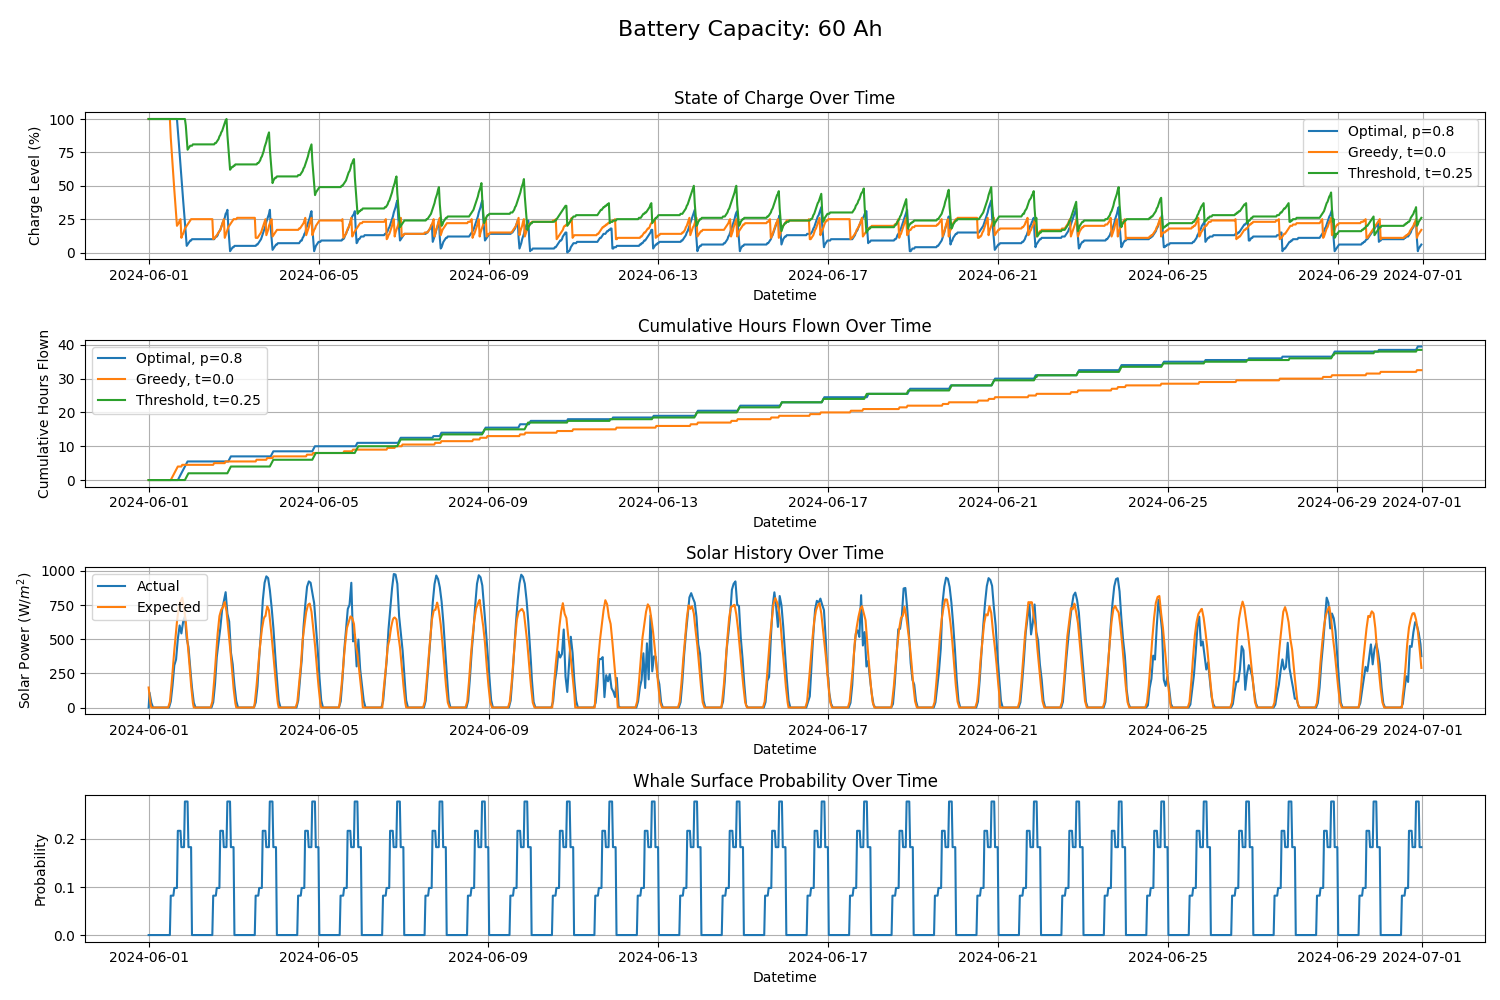
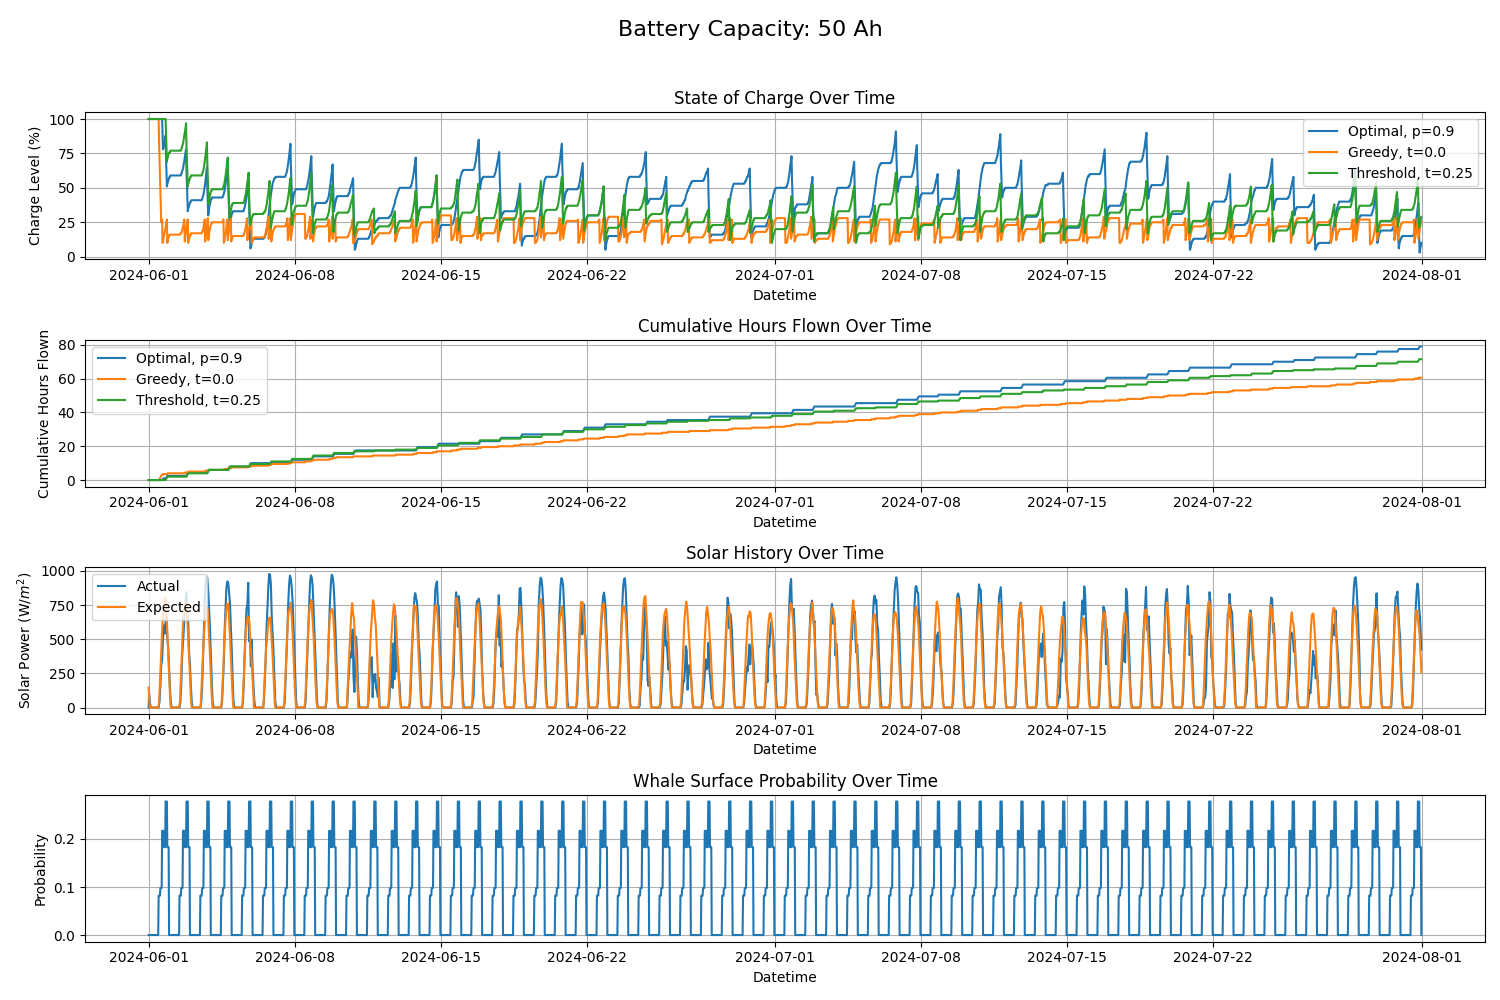
Meeting 11/21

diff --git a/SolarSimulator/Tools/analyze_results.py b/SolarSimulator/Tools/analyze_results.py
@@ -143,31 +143,46 @@ class PickleDataProcessor:
         fig.tight_layout(pad=3)
 
         # Ensure axes is always a list for consistent indexing, even with one file
-        if len(files) == 1:
+        num_files = len(files)
+        if num_files == 1:
             axes = [axes]
+        elif num_files == 0:
+            raise ValueError("No .pkl files found in the directory.")
         
         # Loop through each file and create a subplot
         for i, filename in enumerate(files):
             filepath = os.path.join(directory, filename)
             df = pd.read_pickle(filepath)
-            # match = re.match(r"(\w+)_Data_c(\d+)_p([\d.]+)_(\d+)min\.pkl", filename)
-            match = re.match(r"(\w+)_Data_c(\d+)_p([\d.]+)_(\d+)min_(\d+-\d+)", filename)
 
+            # Regex to handle all cases (Optimal, Threshold, and Greedy)
+            match = re.match(r"(\w+)_Data_c(\d+)_((p|t)([\d.]+))_(\d+)min_(\d+-\d+)", filename)
             if match:
-                algo, cap, prob, dt,_ = match.groups()
+                algo, cap, _, key, value, dt, days = match.groups()
                 cap = int(cap)
-                prob = float(prob)
                 dt = int(dt)
 
-            # Check if "Reward" column exists in the file
+                # Handle algorithm name for Greedy
+                if algo == "Threshold" and key == "t" and float(value) == 0.0:
+                    algo = "Greedy"
+                    value = None  # Threshold is irrelevant for Greedy
+
+                # Prepare title details
+                details = f"Capacity: {cap} Ah, "
+                details += f"Failure p={value}" if key == "p" else f"Threshold t={value}"
+                title = f"{algo} ({details}, {dt} min steps)"
+
+            else:
+                title = f"Unmatched: {filename}"
+
+            # Check if "Reward" column exists in the DataFrame
             if "Reward" in df.columns:
-                ax = axes[i]
-                ax.hist(df["Reward"], bins=bins,edgecolor='white')
-                ax.set_title(f"{algo}")
+                ax = axes[i] if num_files > 1 else axes  # Single plot case
+                ax.hist(df["Reward"], bins=bins, edgecolor="white")
+                ax.set_title(title)
                 ax.set_xlabel("Whales Spotted")
                 ax.set_ylabel("Number of Cases")
-                ax.set_xlim((0, 60))
-                ax.tick_params(axis='x', which='both', labelbottom=True)
+                ax.set_xlim((0, 175))
+                ax.tick_params(axis="x", which="both", labelbottom=True)
             else:
                 print(f"No 'Reward' column found in {filename}. Skipping this file.")
 
@@ -194,12 +209,12 @@ class PickleDataProcessor:
 
 # Example usage
 if __name__ == "__main__":
-    dire = r"Results\TakeoffPowerConsumption\PPT-Results\testplz"
+    dire = r"."
     processor = PickleDataProcessor(directory=dire)  # Use "." for the current directory
     # processor.plot_reward_histogram(directory=dire,bins=30)
     processor.process_files()
     df = processor.get_results_df()
     processor.calculate_percent_improvement(df).to_csv("test.csv")
-    processor.plot_all_data()
-    # processor.plot_reward_histogram()
+    # processor.plot_all_data()
+    processor.plot_reward_histogram(directory=dire,)
     # print(processor.results)

diff --git a/SolarSimulator/main.py b/SolarSimulator/main.py
@@ -52,20 +52,20 @@ if __name__ == '__main__':
     time_string = current_time.strftime("%Y-%m-%d_%H-%M-%S")
 
     utc_offset = timezone(timedelta(hours=0))
-    start_date = pd.to_datetime(datetime(2024,6,1).replace(tzinfo=utc_offset))
-    end_date = pd.to_datetime(datetime(2024,7,1).replace(tzinfo=utc_offset))
+    start_date = pd.to_datetime(datetime(2024,3,1).replace(tzinfo=utc_offset))
+    end_date = pd.to_datetime(datetime(2024,9,1).replace(tzinfo=utc_offset))
 
     
     # start_date = pd.to_datetime(datetime(2024,7,1))
     # end_date = pd.to_datetime(datetime(2024,7,2))
 
-    capacities = [60]
-    mdp_probs = [0.8]
-    thresholds = [0.0,.25]
+    capacities = [50]
+    mdp_probs = [0.9]
+    thresholds = [0.0,0.25]
     success_prob=1.0
     visualize = True
     dt=30
-    NUM_RUNS = 1
+    NUM_RUNS = 1500
     sim = Simulation(plane, lat, lon, tz, save_history=visualize)
 
     # Run simulation
@@ -78,11 +78,11 @@ if __name__ == '__main__':
             times,data = sim.run_simulation(start_date,end_date,dt,algo=algo,mdp_success_prob=mdp_probs[0],true_success_prob=success_prob,runs=NUM_RUNS,threshold=threshold)
             data.to_pickle(f"{algo}_Data_c{cap}_t{threshold}_{dt}min_{start_date.day_of_year}-{end_date.day_of_year}_{NUM_RUNS}.pkl")
 
-        for mdp_success_prob in tqdm(mdp_probs, desc=f"Processing probabilities for cap={cap}", leave=False):
-            # MDP Simulation
-            algo='Optimal'
-            times,data = sim.run_simulation(start_date,end_date,dt,algo=algo,mdp_success_prob=mdp_success_prob,true_success_prob=success_prob,runs=NUM_RUNS)
-            data.to_pickle(f"{algo}_Data_c{cap}_p{mdp_success_prob}_{dt}min_{start_date.day_of_year}-{end_date.day_of_year}_{NUM_RUNS}.pkl")
+        # for mdp_success_prob in tqdm(mdp_probs, desc=f"Processing probabilities for cap={cap}", leave=False):
+        #     # MDP Simulation
+        #     algo='Optimal'
+        #     times,data = sim.run_simulation(start_date,end_date,dt,algo=algo,mdp_success_prob=mdp_success_prob,true_success_prob=success_prob,runs=NUM_RUNS)
+        #     data.to_pickle(f"{algo}_Data_c{cap}_p{mdp_success_prob}_{dt}min_{start_date.day_of_year}-{end_date.day_of_year}_{NUM_RUNS}.pkl")
 
 
     if visualize:

diff --git a/SolarSimulator/BaseClasses/run_sim.py b/SolarSimulator/BaseClasses/run_sim.py
@@ -209,21 +209,21 @@ class SolarPlaneSimulation:
 if __name__ == "__main__":
     # Initialize the SolarPlaneSimulation with relevant parameters
     simulation = SolarPlaneSimulation(
-        lat=25, lon=-90, tz="Etc/GMT-5",  # Location parameters
-        start_date="2024-06-01",          # Simulation start date
-        end_date="2024-07-01",            # Simulation end date
+        lat=30, lon=-90, tz="Etc/GMT-0",  # Location parameters
+        start_date="2024-03-01",          # Simulation start date
+        end_date="2024-9-01",            # Simulation end date
         dt=30,                            # Time step in minutes
-        num_runs=1000,                     # Number of simulation runs
-        visualize=False,                   # Enable visualization
-        save_dir=r"Results\TakeoffPowerConsumption\PPT-Results\testplz", # Directory to save results
+        num_runs=1500,                     # Number of simulation runs
+        visualize=True,                   # Enable visualization
+        save_dir=r".", # Directory to save results
         show=False                        # Suppress immediate plot display
     )
 
     # Define simulation parameters
-    capacities = [20,30,40,50,60,70,80,90,100]            # Battery capacities in Amp-hours
-    thresholds = [0.0,0.2,0.25]                   # Threshold values for 'Threshold' algorithm
-    mdp_probs = [0.8]                         # MDP success probabilities for 'Optimal' algorithm
-    success_prob = 0.8                      # True success probability
+    capacities = [50]            # Battery capacities in Amp-hours
+    thresholds = [0.0,0.25]                   # Threshold values for 'Threshold' algorithm
+    mdp_probs = [0.9]                         # MDP success probabilities for 'Optimal' algorithm
+    success_prob = 0.9                      # True success probability
 
     # Run the simulation
     simulation.run(capacities=capacities, thresholds=thresholds, mdp_probs=mdp_probs, success_prob=success_prob)

diff --git a/SolarSimulator/BaseClasses/mdp.py b/SolarSimulator/BaseClasses/mdp.py
@@ -19,7 +19,7 @@ class mdp:
         self.vehicle_states = vehicle_states
         self.actions = actions
         self.dt = dt
-        self.gamma = 0.95
+        self.gamma = 1.0
         self.epsilon = epsilon
         self.show_progress = False
 
@@ -329,7 +329,7 @@ class mdp:
         Returns:
             float: The probability of whale sighting at the nearest time block.
         """
-        current_time = (start_time + (current_step * timestep)) % 1440
+        current_time = (start_time + (current_step * timestep)+60) % 1440
         nearest_start = (current_time // 120) * 120
         return self.whale_surface_probs.get(nearest_start)
     

diff --git a/SolarSimulator/BaseClasses/plotting_base.py b/SolarSimulator/BaseClasses/plotting_base.py
@@ -246,6 +246,6 @@ if __name__ == '__main__':
     utc_offset = timezone(timedelta(hours=0))
     start_date = pd.to_datetime(datetime(2024,1,1).replace(tzinfo=utc_offset))
     end_date = pd.to_datetime(datetime(2024,2,1).replace(tzinfo=utc_offset))
-    plotter = SolarChargePlotter(r"Results\TakeoffPowerConsumption\PPT-Results\9month50Ah",start_date=start_date,time_step=f"{dt}min")
+    plotter = SolarChargePlotter(r".",start_date=start_date,time_step=f"{dt}min")
     # plotter.plot_data()
     plotter.plot_reward_vs_threshold()

diff --git a/SolarSimulator/BaseClasses/autonomy_base.py b/SolarSimulator/BaseClasses/autonomy_base.py
@@ -282,7 +282,7 @@ class Autonomy:
     @staticmethod
     def get_sighting_probability(probability_map, current_step, timestep, start_time):
         # Calculate the current time in minutes
-        current_time = (start_time + (current_step * timestep)) % 1440
+        current_time = (start_time + (current_step * timestep)+60)%1440
         
         # Find the nearest start time by rounding down to the closest 120-minute mark
         nearest_start = (current_time // 120) * 120

diff --git a/SolarSimulator/BaseClasses/seaplane_base.py b/SolarSimulator/BaseClasses/seaplane_base.py
@@ -52,7 +52,7 @@ class Seaplane:
         self.calculate_pdc0()
         self.calculate_weight()
         self.required_cruise_power = self.get_required_power(20,1.2)
-        self.required_takeoff_energy = self.get_required_takeoff_energy(0)
+        self.required_takeoff_energy = self.get_required_takeoff_energy(1)
         
 
     def get_total_mass(self,directory):

diff --git a/SolarSimulator/BaseClasses/simulation_base.py b/SolarSimulator/BaseClasses/simulation_base.py
@@ -42,7 +42,7 @@ class Simulation:
         self.tz = tz
         self.whale_table = WhaleSighting().probability_map
         self.save_history = save_history
-        self.use_expected = use_expected
+        self.use_expected = False
 
     def run_simulation(self,
                     start_date:datetime,
